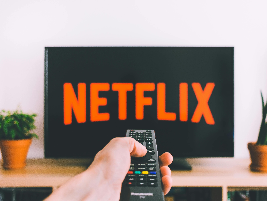
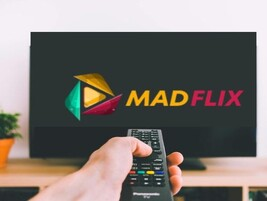
updated

diff --git a/index.html b/index.html
@@ -259,10 +259,10 @@
             </h4>
           </figcaption>
         </figure></a></div>
-      <div class="grid-item"><a href="https://netflix-gpt-74f7a.web.app/">
+      <div class="grid-item"><a href="https://madflix-gpt-iamsakshirai.vercel.app/">
           <figure class="portfolio-item"><img src="images/portfolio/1-small.jpg" data-bp="images/portfolio/1.jpg"/>
             <figcaption>
-              <h4 class="h5 mb-0">NETFLIX-GPT</h4>
+              <h4 class="h5 mb-0">MADFLIX-GPT</h4>
             </figcaption>
           </figure></a></div>
       <div class="grid-item"><a href="https://iamsakshirai-password-generator.vercel.app/">
@@ -322,7 +322,7 @@
           <div class="card-header px-3 py-2">
             <div class="d-flex justify-content-between">
               <div>
-                <h3 class="h5 mb-1">Frontend Developer</h3>
+                <h3 class="h5 mb-1">Software Developer</h3>
                 <div class="text-muted text-small"> <a href="https://www.linkedin.com/company/tokenomeme/">Tokenomeme</a>. <small>(02/2024-Present)</small></div>
               </div><img src="images/services/new/2.png" width="48" height="48" alt="app development"/>
             </div>
